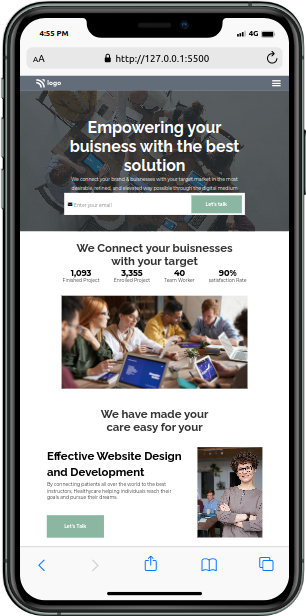
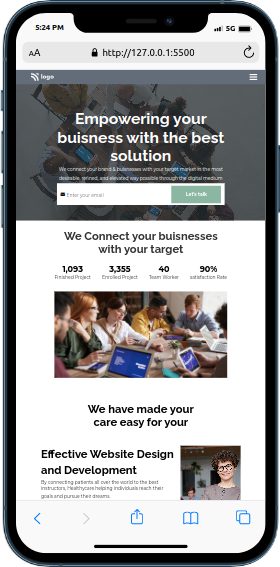
change in readme and css

diff --git a/style.css b/style.css
@@ -171,6 +171,7 @@ nav img:hover {
 }
 
 .hero-section-2-heading {
+    margin-bottom: 2rem;
     text-align: center;
     font-family: Raleway;
     font-size: 2.5rem;
@@ -205,15 +206,15 @@ nav img:hover {
 
 /* Hero-section-3 */
 .hero-section-3-heading {
-    margin-top: 7%;
+    margin-top: 10%;
     text-align: center;
     font-family: Raleway;
     font-size: 2.5rem;
-    color: #333;
+    color: #000;
 }
 
 .hero-sec3-main {
-    margin: 5% 10%;
+    margin: 7% 10%;
     display: flex;
     flex-direction: column;
     gap: 9rem;
@@ -331,12 +332,14 @@ nav img:hover {
 }
 
 .hero-sec4-heading h1 {
+    width: 40%;
     font-family: Raleway;
     font-size: 2.5rem;
     line-height: 1.5;
 }
 
 .hero-sec4-heading p {
+    width: 40%;
     font-size: 1rem;
     line-height: 1.5;
     color: #333;
@@ -436,17 +439,20 @@ nav img:hover {
     margin-top: 2%;
     display: flex;
     flex-direction: row;
+    flex-wrap: wrap;
     justify-content: space-between;
 }
 
 .footer-headings {
+    margin-bottom: 5px;
     font-weight: 700;
     color: #fff;
     font-size: 1.1rem;
 }
 
 .footer-headings~p {
-    font-size: 1rem;
+    margin-bottom: 5px;
+    font-size: 0.8rem;
     transition: all 200ms ease-in-out;
 }
 
@@ -532,4 +538,19 @@ nav img:hover {
         width: 30%;
         height: auto;
     }
+
+    .hero-sec4-heading {
+        display: flex;
+        flex-direction: column;
+        text-align: center;
+    }
+
+    .hero-sec4-heading h1 {
+        width: 100%;
+    }
+
+    .hero-sec4-heading p {
+        width: 100%;
+    }
+
 }

diff --git a/index.html b/index.html
@@ -148,14 +148,11 @@
 
     <section id="hero-section-4">
       <div class="hero-sec4-heading">
-        <h1>
-          Meets our great <br />
-          Creative Teams
-        </h1>
+        <h1>Meets our great Creative Teams</h1>
         <p>
-          Our journey began with a simple idea make a simple <br />
-          journey make this world more function. We collaborate <br />
-          with organizations that are keen transform
+          Our journey began with a simple idea make a simple journey make this
+          world more function. We collaborate with organizations that are keen
+          transform
         </p>
       </div>
 
